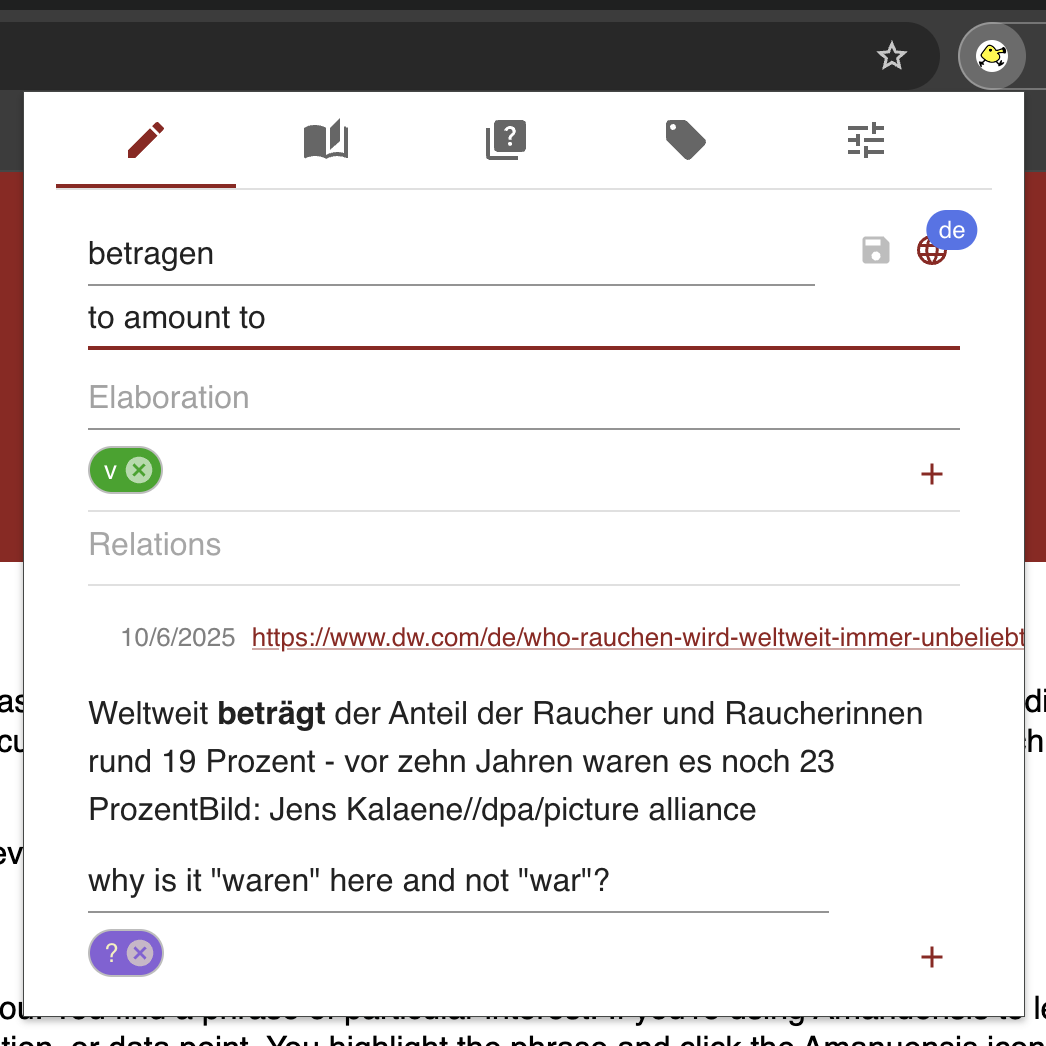
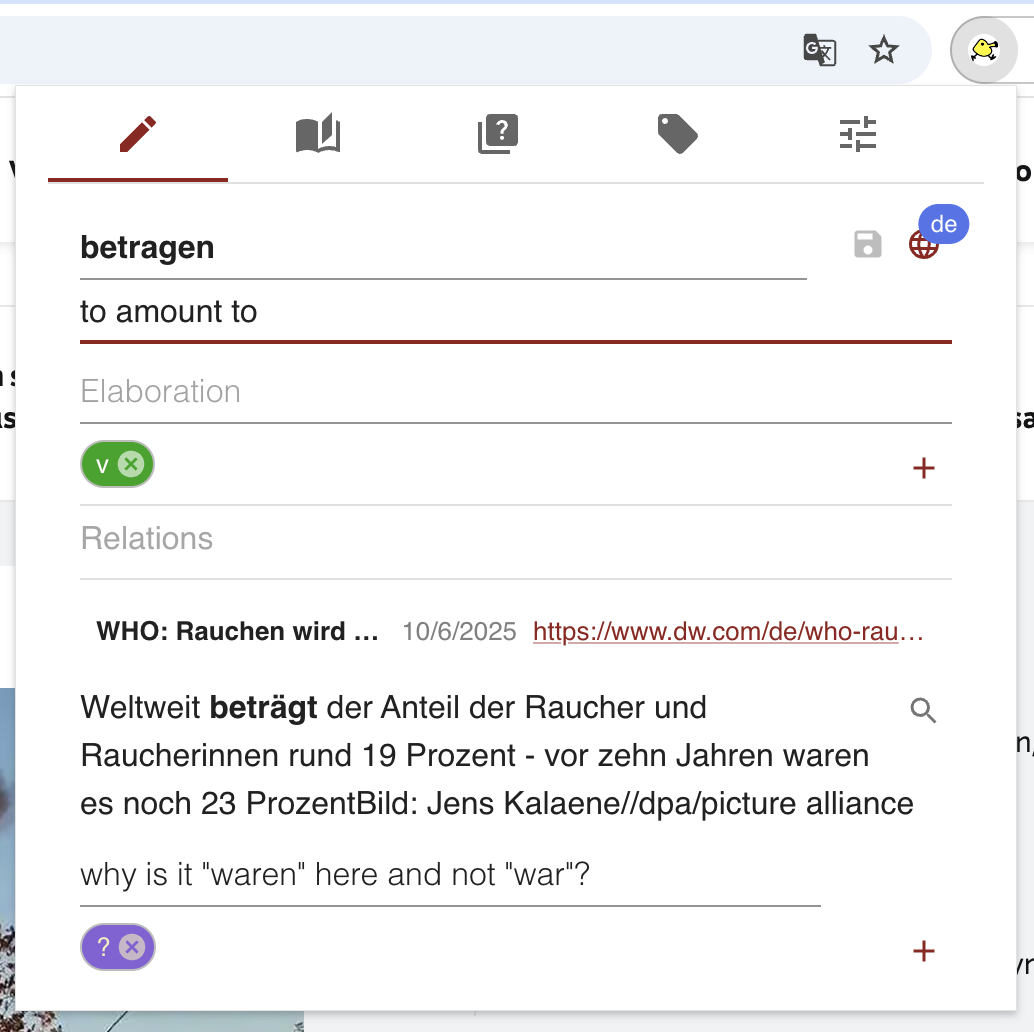
more documentation cleanup

diff --git a/docs/index.html b/docs/index.html
@@ -388,12 +388,16 @@
       </p>
       <figure class="full-width" id="example-figure">
         <img src="images/example.png" alt="what Amanuensis looks like in use" />
-        <figcaption>Amanuensis in use. The square on the right depending from the <a href="#oofla">little yellow
-            figure</a> is a note taken in Amanuensis regarding the hightlighted text. You can see at the top that
-          Amanuensis has five tags. The first, the <a href="#note">note</a>, is active. The others are the <a
-            href="#dictionary">dictionary</a>, the <a href="#quiz">spaced repetition quiz</a>, <a href="#tags">tags</a>,
-          and <a href="#configuration">configuration</a>.
-
+        <figcaption>
+          Amanuensis in use. The square on the right depending from the
+          <a href="#oofla">little yellow figure</a> is a note taken in
+          Amanuensis regarding the text highlighted in purple. You can see at
+          the top that Amanuensis has five tags. The first, the
+          <a href="#note">note</a>, is active. The others are the
+          <a href="#dictionary">dictionary</a>, the
+          <a href="#quiz">spaced repetition quiz</a>,
+          <a href="#tags">tags</a>, and
+          <a href="#configuration">configuration</a>.
         </figcaption>
       </figure>
       <p>
@@ -584,7 +588,8 @@
         <figcaption>
           A note: 1) lemma; 2) save icon; 3) language; 4) gloss; 5)
           elaboration; 6) tags; 7) links; 8) citation title; 9) citation date;
-          10) citation URL; 11) citation; 12) citation note; 13) citation tags
+          10) citation URL; 11) citation; 12) similarity search tool; 13)
+          citation note; 14) citation tags
         </figcaption>
       </figure>
       <p>
@@ -776,15 +781,47 @@
         allow you to find the note you are interested in and continue from
         where you were when Amanuensis closed.
       </p>
+      <h5>the similarity search tool</h5>
+      <figure id="similarity-search-tool-figure">
+        <img src="images/similarity_search_tool.png" alt="The similarity search tool" />
+        <figcaption>
+          The similarity search tool in action. The icon to the right is blue
+          after being clicked, indicating that it is active. The magnifying
+          glass to the left allows one to select a word to search for.
+        </figcaption>
+      </figure>
+      <p>
+        Whenever you create a note, Amanuensis will add the form cited to
+        those it can link directly to a particular note. These links appear in
+        red in the citation. In a language like Finnish, however, in which
+        words may have dozens of forms, you may have a note for a particular
+        word but no citation for its form. The similarity search tool helps
+        you find notes in these cases.
+      </p>
+      <p>
+        The tool has two states: active and inactive. The inactive state is
+        portrayed in <a href="#note-figure">the note figure</a>. It is the
+        small gray magnifying glass labeled (12). If you click this icon, the
+        tool becomes active. The icon will turn blue as shown in
+        <a href="#similarity-search-tool-figure">the tool figure</a>, and the
+        cursor will turn into a magnifying glass when it is over a word in the
+        citation which is not already a link to another note.
+      </p>
+      <p>
+        If you click on a word with the magnifying glass, you will switch to
+        the <a href="#dictionary">dictionary</a> tab in
+        <a href="#similar">similarity search mode</a> with the phrase
+        preloaded as the term searched for.
+      </p>
       <h5>citation note</h5>
       <p>
         Each citation has its own note in which you can record anything
-        interesting about the particular citation. This is (12) in
+        interesting about the particular citation. This is (13) in
         <a href="#note-figure">the figure</a>.
       </p>
       <h5>citation tags</h5>
       <p>
-        Every citation also may have its own tags. This is (13) in
+        Every citation also may have its own tags. This is (14) in
         <a href="#note-figure">the figure</a>.
       </p>
       <figure id="citation-note-and-tags">
@@ -919,7 +956,7 @@
       <p>
         When you highlight some text and invoke Amanuensis, it creates a
         provisional note and searches for similar notes within
-        <a href="#language">the language inferred by Chrome</a>. This
+        <a href="#languages">the language inferred by Chrome</a>. This
         facilitates merging the citation highlighted with an existing note
         immediately. The search is over all lemmas and citations. Because of
         this pattern of use, the similar phrase search form has only two
@@ -945,7 +982,8 @@
           plural, Jaro-Winkler is generally a pretty good default. There are
           languages, though, like the Bantu languages, that use inflectional
           prefixes &mdash; <i>watu</i> is the plural of <i>mtu</i>,
-          &ldquo;person&rdquo; in Swahili. For these see reverse Jaro-Winkler.
+          &ldquo;person&rdquo; in Swahili. For these, see reverse
+          Jaro-Winkler.
         </dd>
         <dt>longest common substring</dt>
         <dd>
@@ -1008,12 +1046,12 @@
         <img src="images/challenge.png" alt="the challenge side of a spaced repetition quiz card" />
         <figcaption>
           1) the lemma quiz tab; 2) gloss quiz tab; 3) a link to this
-          documentation; 4) the lemma for which you are challenged to provide the
-          gloss and tags; 5) the green dot indicating this is the first time
-          this challenge has been presented in a quiz; 6) the language badge
-          &mdash; the same lemma could occur in multiple languages; 7) how many
-          new &mdash; "green dot" &mdash; cards are in the quiz; how many old;
-          8) outcomes so far; 9) the progress bar
+          documentation; 4) the lemma for which you are challenged to provide
+          the gloss and tags; 5) the green dot indicating this is the first
+          time this challenge has been presented in a quiz; 6) the language
+          badge &mdash; the same lemma could occur in multiple languages; 7)
+          how many new &mdash; "green dot" &mdash; cards are in the quiz; how
+          many old; 8) outcomes so far; 9) the progress bar
         </figcaption>
       </figure>
       <p>
@@ -1027,7 +1065,7 @@
       </p>
       <p>
         Trials bear this theory out. The remaining problem, then, is
-        predicting when a memory will face &mdash; how much space one should
+        predicting when a memory will fade &mdash; how much space one should
         allow before repetition.
       </p>
       <p>
@@ -1040,13 +1078,25 @@
         note taking app, not a flashcard app. That being said, I'm quite
         pleased with Amanuensis's hacked together spaced repetition quiz.
       </p>
+      <h4 id="general-procedure">The general procedure</h4>
+      <p>Amanuensis presents its spaced repetition quiz as a stack of flashcards. You see a card. You try to guess what
+        is on the other side. Then you click the card. The card flips, revealing its back, and you rate your
+        performance.</p>
+      <p>
+        Quizzes consist of some number of new cards, cards you've never seen in a quiz, and whichever old cards may have
+        come due for another go. The new cards are a random subset of those available. All the scheduled old cards are
+        in the stack. If you skip a day, the next day you will see all the cards that were due the first day plus any
+        others that have come due, so they will pile up a bit if you don't do the quiz regularly.
+      </p>
       <h4>The challenge side of the card</h4>
       <p>
-        The challenge side of the card is the side that you are asked to
-        provide the answer to. In the case of a lemma quiz, this is the
-        <i>lemma</i> side. In the case of a gloss quiz, this is the
+        The challenge side of the card (<a href="#challenge-figure">challenge figure</a>) is the side presents a
+        challenge to which you are meant to provide
+        the answer. In the case of a lemma quiz, this is the
+        <i>lemma</i> side; the answer is the glass. In the case of a gloss
+        quiz, this is the
         <i>gloss</i>
-        side.
+        side; you are meant to provide the lemma.
       </p>
       <h4>The answer side of the card</h4>
       <figure id="response-figure">
@@ -1058,8 +1108,9 @@
         </figcaption>
       </figure>
       <p>
-        The answer side of the card is the side that you are asked to provide
-        the answer to. In the case of a lemma quiz, this is the
+        The answer side of the card (<a href="#response-figure">response figure</a>) is the side that provides the
+        answer to the challenge presented on
+        the first side seen. In the case of a lemma quiz, this is the
         <i>gloss</i> side. In the case of a gloss quiz, this is the
         <i>lemma</i>
         side.
@@ -1157,10 +1208,10 @@
       <figure id="config-figure">
         <img src="images/configuration.png" alt="the configuration tab" />
         <figcaption>
-          The configuration tab: 1) link to this documentation; 2) maximum similar
-          phrase count; 3) auto-graduate count 4) quiz memory challeng; 5)
-          clear database button; 6) export database button; 7) import database
-          button
+          The configuration tab: 1) link to this documentation; 2) maximum
+          similar phrase count; 3) auto-graduate count 4) quiz memory
+          challeng; 5) clear database button; 6) export database button; 7)
+          import database button
         </figcaption>
       </figure>
       <figure id="language-figure">
@@ -1238,9 +1289,9 @@
         You do not need to use Amanuensis to study languages. You can use it
         simply as a note taking tool. Amanuensis begins configured to use only
         one language, the "unknown" language &mdash; (2) in
-        <a href="#language-figure">the figure</a>. You do not need to configure
-        it further. If you create a note, it will begin and remain assigned to
-        the unkown language.
+        <a href="#language-figure">the figure</a>. You do not need to
+        configure it further. If you create a note, it will begin and remain
+        assigned to the unkown language.
       </p>
       <p>
         If you do wish to study a particular language you need to tell
@@ -1252,8 +1303,8 @@
       </p>
       <p>
         To add a language, click the add-language icon &mdash; (1) in
-        <a href="#language-figure">the figure</a>. This will open a modal where
-        you can select a language with an
+        <a href="#language-figure">the figure</a>. This will open a modal
+        where you can select a language with an
         <a href="https://en.wikipedia.org/wiki/List_of_ISO_639_language_codes"
           title="the wikipedia page listing the ISO-639-1 language codes">ISO-639-1 language code</a>. At this time,
         Amanuensis does not provide a mechanism to add a
